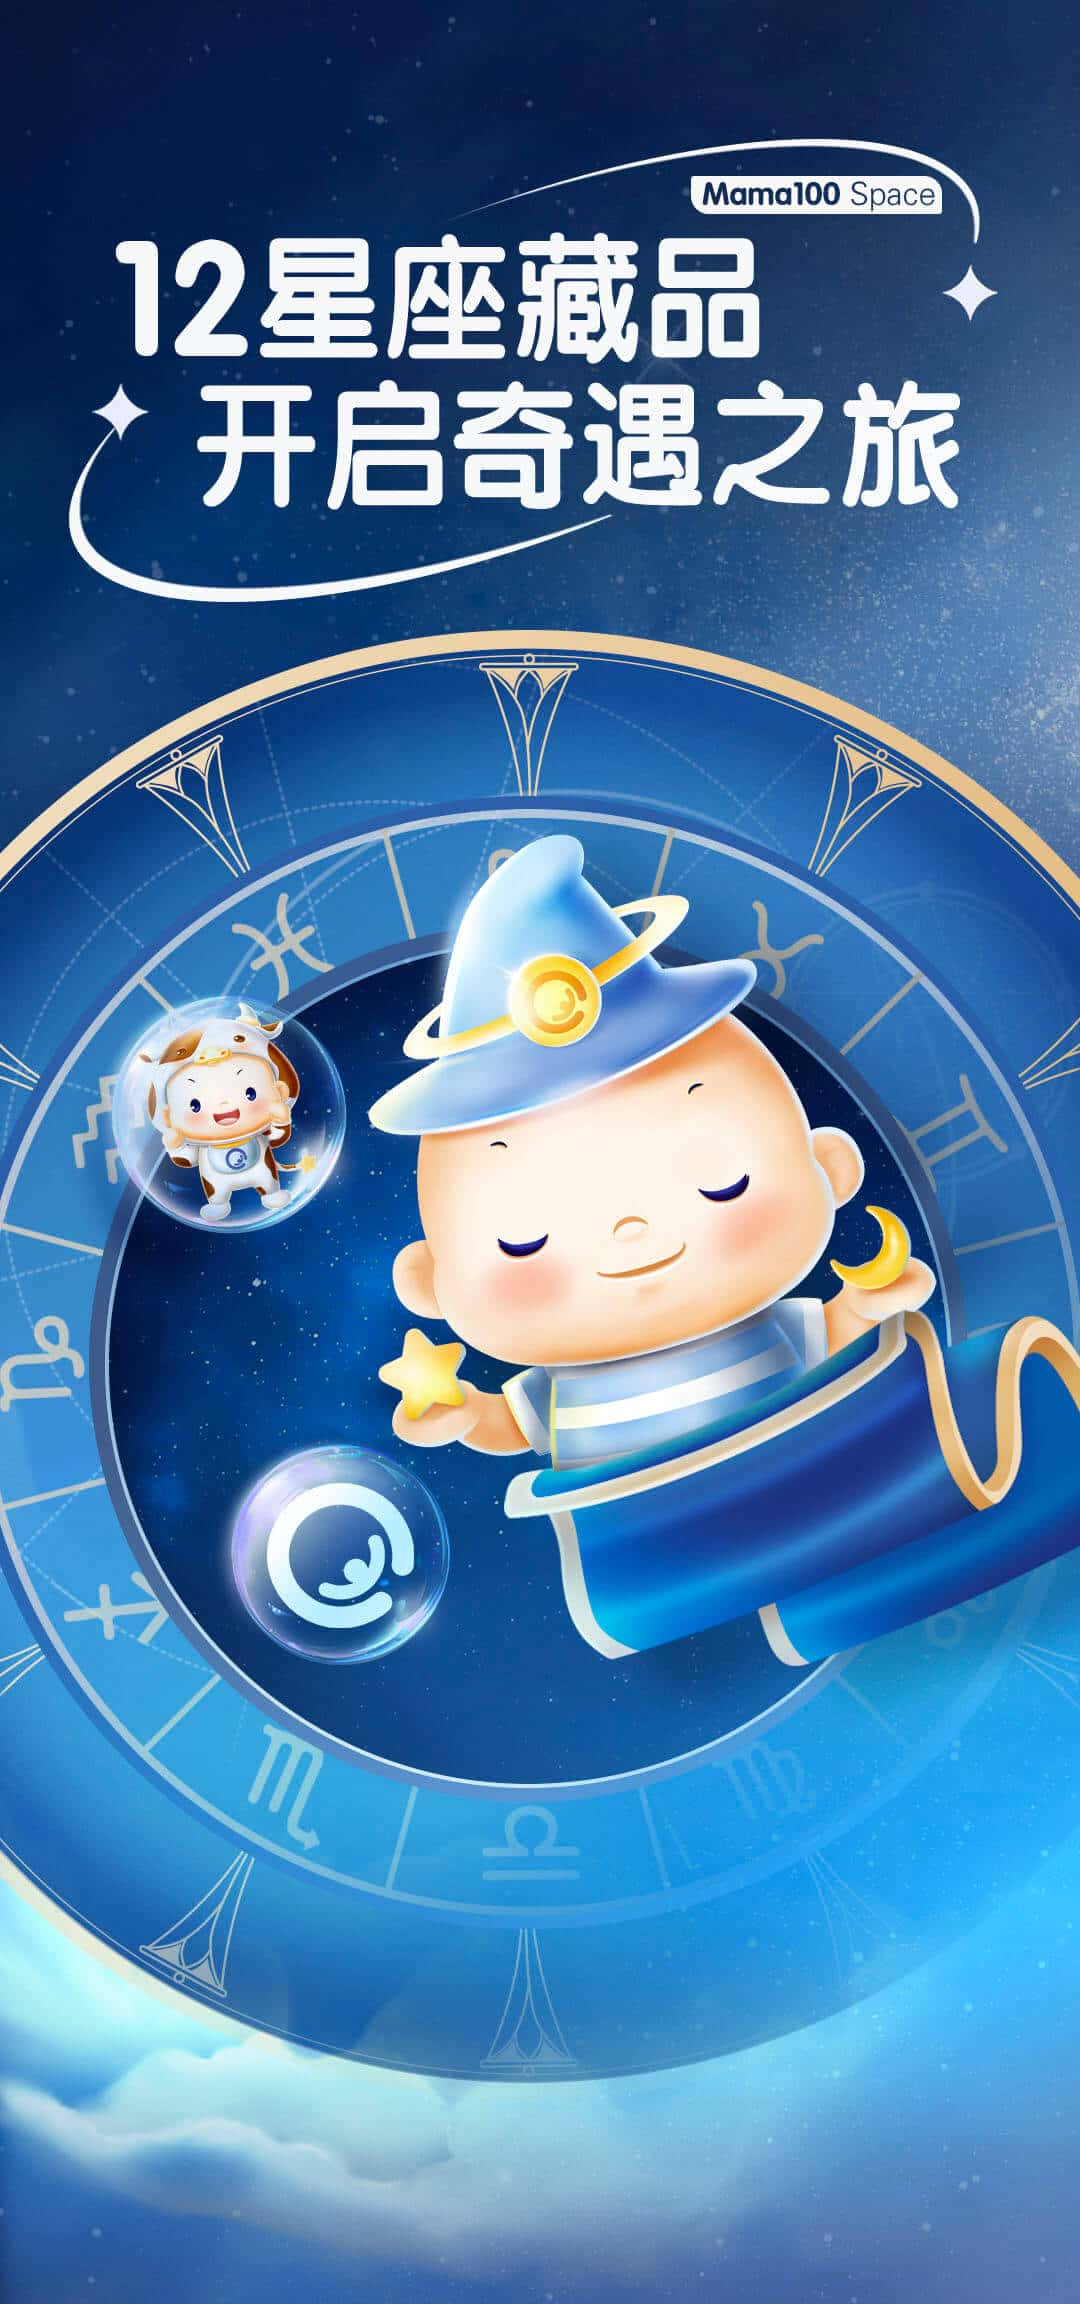
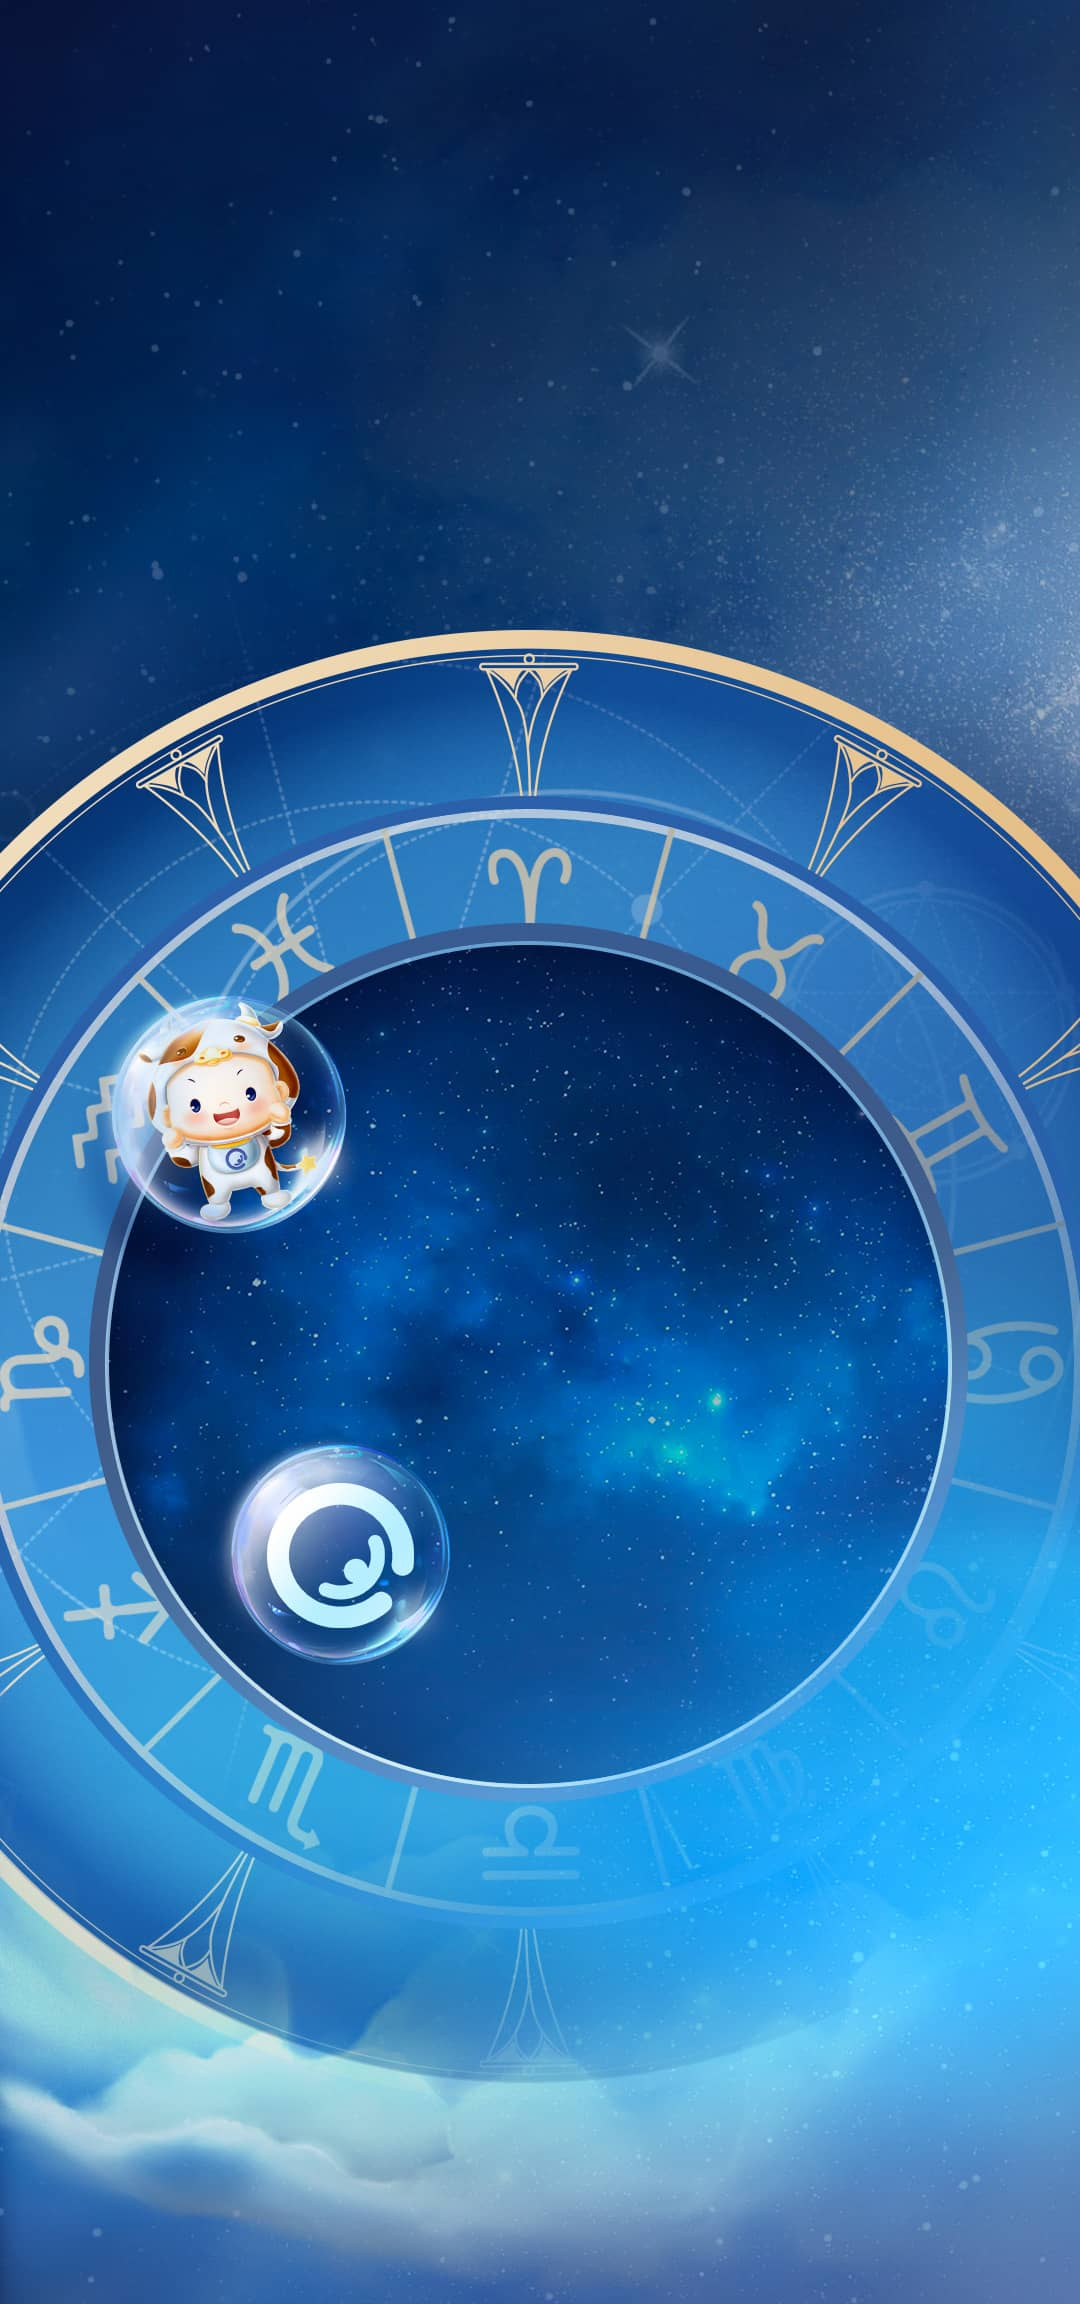
feat: 修改首页动画效果

diff --git a/src/pages/Home/index.module.less b/src/pages/Home/index.module.less
@@ -10,21 +10,70 @@
 }
 
 .title {
-  width: 938px;
-  margin: 0 auto;
+  position: absolute;
+  top: 0;
+  left: 0;
+  z-index: 1;
+  width: 100%;
 }
 
-.ding {
+.dingBox {
   position: absolute;
-  top: 700px;
+  top: 1000px;
   right: 0;
-  width: 869px;
+  z-index: 5;
+  width: 100%;
+  height: 590px;
   animation: floatAnimation 2s infinite ease-in-out;
+
+  .ding {
+    position: absolute;
+    top: -353px;
+    right: 146px;
+    z-index: 3;
+    width: 620px;
+  }
+
+  .carpet {
+    position: absolute;
+    top: 0;
+    right: 0;
+    z-index: 4;
+  }
+}
+
+.disc {
+  position: absolute;
+  top: 0;
+  left: 50%;
+  z-index: 2;
+  width: 1604px;
+  margin-left: -802px;
+  transform-origin: 805px 1374px;
+  animation: rotate 40s linear infinite;
+
+  img {
+    &:last-child {
+      position: absolute;
+      top: 0;
+      left: 0;
+      z-index: 2;
+    }
+  }
+}
+
+.light {
+  position: absolute;
+  top: 800px;
+  right: 0;
+  z-index: 7;
+  width: 100%;
 }
 
 .bottom {
   position: absolute;
   bottom: 136px;
+  z-index: 8;
   display: flex;
   justify-content: space-between;
   width: 100%;
@@ -48,5 +97,15 @@
 }
 
 @keyframes floatAnimation {
-  50% { transform: translate(30px, 30px); }
+  50% { transform: translate(10px, 10px); }
+}
+
+@keyframes rotate {
+  0% {
+    transform: rotate(0deg);
+  }
+
+  100% {
+    transform: rotate(360deg);
+  }
 }

diff --git a/src/pages/Home/index.jsx b/src/pages/Home/index.jsx
@@ -10,8 +10,16 @@ const Home = () => {
   return (
     <div className={styles.page}>
       <TopBtns />
-      <img className={styles.title} src="/imgs/home/title.png" alt="标题" />
-      <img className={styles.ding} src="/imgs/home/dingding.png" alt="丁丁" />
+      <img className={styles.title} src="/imgs/home/title.gif" alt="标题" />
+      <div className={styles.dingBox}>
+        <img className={styles.ding} src="/imgs/home/dingding.png" alt="丁丁" />
+        <img className={styles.carpet} src="/imgs/home/carpet.gif" alt="飞毯" />
+      </div>
+      <div className={styles.disc}>
+        <img src="/imgs/home/disc.png" />
+        <img src="/imgs/home/disc_shadow.png" />
+      </div>
+      <img className={styles.light} src="/imgs/home/light.png" />
       <div className={styles.bottom}>
         <div
           className={styles.toMember}
